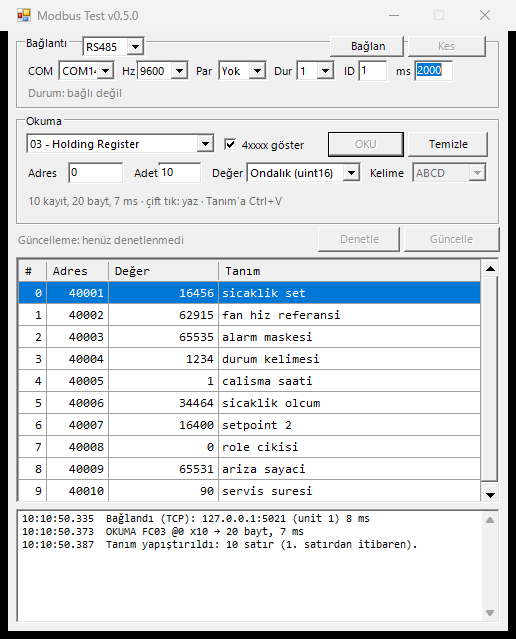
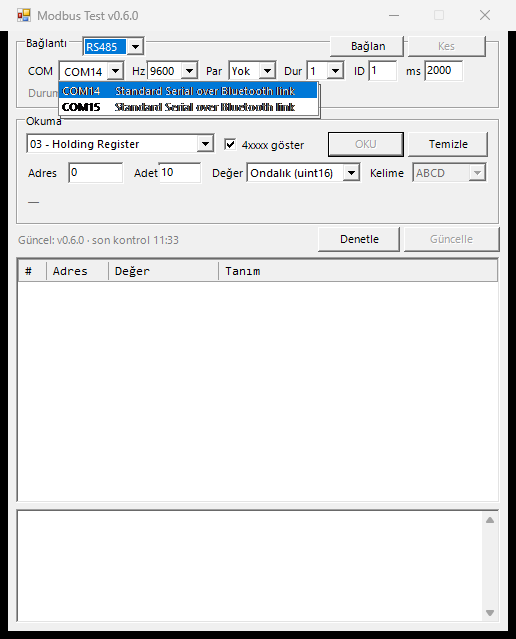
feat: COM listesi acilirken portun yaninda Windows'taki surucu adi yaziliyor
RS485 modunda COM kutusu owner-draw ile cizilir: solda sade port adi, sagda
Win32_PnPEntity aciklamasi (orn. COM14  USB-SERIAL Ch A). Kutu kapaliyken yalnizca
port adi gorunur, acilir liste olcuye gore genisler (en fazla 320 px). Aciklamalar
port listesi degistiginde yeniden sorgulanir; WMI yanit vermezse liste cidplak COM
adlaryla calismaya devam eder. COM kutusu 68 px'e genisletilip seri alanlar sag kaydirildi.

diff --git a/src/MainForm.cs b/src/MainForm.cs
@@ -32,6 +32,8 @@ namespace ModbusScan
         private bool _updateInstallRunning;
         private DataGridView grid;
         private readonly Dictionary<string, string> _definitions = new Dictionary<string, string>();
+        private readonly Dictionary<string, string> _portLabels = new Dictionary<string, string>();
+        private string _portLabelKey = "";
 
         public MainForm()
         {
@@ -93,25 +95,29 @@ namespace ModbusScan
             lblCom = MakeLabel("COM", 10, 28);
             cmbSerialPort = new ComboBox();
             cmbSerialPort.DropDownStyle = ComboBoxStyle.DropDownList;
-            cmbSerialPort.SetBounds(42, 25, 58, 22);
+            cmbSerialPort.SetBounds(42, 25, 68, 22);
+            // Açılır listede port adının sağına sürücü açıklaması yazılır (COM14 = USB-SERIAL Ch A).
+            cmbSerialPort.DrawMode = DrawMode.OwnerDrawFixed;
+            cmbSerialPort.ItemHeight = 16;
+            cmbSerialPort.DrawItem += OnPortDrawItem;
             // Listeyi açtıkca yeniden sorgula: dönüştürücü takılıp çıkarılabiliyor.
             cmbSerialPort.DropDown += delegate { RefreshPorts(); };
-            lblBaud = MakeLabel("Hz", 104, 28);
+            lblBaud = MakeLabel("Hz", 114, 28);
             cmbBaud = new ComboBox();
             cmbBaud.DropDownStyle = ComboBoxStyle.DropDownList;
-            cmbBaud.SetBounds(120, 25, 54, 22);
+            cmbBaud.SetBounds(130, 25, 54, 22);
             cmbBaud.Items.AddRange(new object[] { "1200", "2400", "4800", "9600", "19200", "38400", "57600", "115200" });
             cmbBaud.SelectedIndex = 3;
-            lblParity = MakeLabel("Par", 178, 28);
+            lblParity = MakeLabel("Par", 188, 28);
             cmbParity = new ComboBox();
             cmbParity.DropDownStyle = ComboBoxStyle.DropDownList;
-            cmbParity.SetBounds(202, 25, 50, 22);
+            cmbParity.SetBounds(212, 25, 50, 22);
             cmbParity.Items.AddRange(new object[] { "Yok", "Tek", "Çift" });
             cmbParity.SelectedIndex = 0;
-            lblStop = MakeLabel("Dur", 256, 28);
+            lblStop = MakeLabel("Dur", 266, 28);
             cmbStop = new ComboBox();
             cmbStop.DropDownStyle = ComboBoxStyle.DropDownList;
-            cmbStop.SetBounds(280, 25, 40, 22);
+            cmbStop.SetBounds(290, 25, 40, 22);
             cmbStop.Items.AddRange(new object[] { "1", "1.5", "2" });
             cmbStop.SelectedIndex = 0;
             gbConnection.Controls.Add(lblCom);
@@ -368,10 +374,10 @@ namespace ModbusScan
             if (rtu)
             {
                 // Seri alanlar tek satıra sığsın diye Bağlan/Kes başlık satırına çıkar.
-                lblUnit.Location = new Point(326, 28);
-                txtUnit.SetBounds(342, 25, 30, 21);
-                lblMs.Location = new Point(378, 28);
-                txtTimeout.SetBounds(398, 25, 40, 21);
+                lblUnit.Location = new Point(336, 28);
+                txtUnit.SetBounds(352, 25, 30, 21);
+                lblMs.Location = new Point(388, 28);
+                txtTimeout.SetBounds(408, 25, 40, 21);
                 btnConnect.SetBounds(314, 1, 74, 21);
                 btnDisconnect.SetBounds(392, 1, 78, 21);
                 RefreshPorts();
@@ -425,6 +431,7 @@ namespace ModbusScan
             });
 
             string previous = cmbSerialPort.Text;
+            FillPortLabels(names);
             cmbSerialPort.BeginUpdate();
             cmbSerialPort.Items.Clear();
             for (int i = 0; i < names.Length; i++) cmbSerialPort.Items.Add(names[i]);
@@ -437,6 +444,63 @@ namespace ModbusScan
             }
             int keep = previous.Length > 0 ? Array.IndexOf(names, previous) : -1;
             cmbSerialPort.SelectedIndex = keep >= 0 ? keep : 0;
+        }
+
+        /// <summary>Port listesi değiştiyse açıklamaları (sürücü adları) yeniden sorgular.</summary>
+        private void FillPortLabels(string[] names)
+        {
+            StringBuilder key = new StringBuilder();
+            for (int i = 0; i < names.Length; i++) key.Append(names[i]).Append(';');
+            if (key.ToString() == _portLabelKey) return;
+            _portLabelKey = key.ToString();
+            _portLabels.Clear();
+            if (names.Length == 0) return;
+
+            Dictionary<string, string> found = SerialPortInfo.Describe();
+            for (int i = 0; i < names.Length; i++)
+            {
+                string label;
+                if (found.TryGetValue(names[i], out label)) _portLabels[names[i]] = label;
+            }
+
+            int width = cmbSerialPort.Width;
+            for (int i = 0; i < names.Length; i++)
+            {
+                string label;
+                if (!_portLabels.TryGetValue(names[i], out label)) label = "";
+                Size measured = TextRenderer.MeasureText(names[i] + "   " + label, cmbSerialPort.Font,
+                    Size.Empty, TextFormatFlags.NoPrefix);
+                if (measured.Width + 24 > width) width = measured.Width + 24;
+            }
+            cmbSerialPort.DropDownWidth = width > 320 ? 320 : width;
+        }
+
+        private void OnPortDrawItem(object sender, DrawItemEventArgs e)
+        {
+            if (e.Index < 0) return;
+            string name = Convert.ToString(cmbSerialPort.Items[e.Index]);
+            string label;
+            if (!_portLabels.TryGetValue(name, out label)) label = "";
+            bool selected = (e.State & DrawItemState.Selected) != 0;
+            bool editBox = (e.State & DrawItemState.ComboBoxEdit) != 0;
+
+            e.DrawBackground();
+            Color textColor = selected ? SystemColors.HighlightText : SystemColors.WindowText;
+            TextRenderer.DrawText(e.Graphics, name, cmbSerialPort.Font, e.Bounds, textColor,
+                TextFormatFlags.Left | TextFormatFlags.VerticalCenter | TextFormatFlags.NoPrefix);
+
+            // Kutu kapalıyken yer dar; açıklama yalnızca açılır listede yazılır.
+            if (!editBox && label.Length > 0)
+            {
+                int nameWidth = TextRenderer.MeasureText(name, cmbSerialPort.Font, Size.Empty,
+                    TextFormatFlags.NoPrefix).Width;
+                Rectangle tail = new Rectangle(e.Bounds.X + nameWidth + 8, e.Bounds.Y,
+                    e.Bounds.Width - nameWidth - 10, e.Bounds.Height);
+                Color labelColor = selected ? Color.FromArgb(215, 228, 255) : Color.Gray;
+                TextRenderer.DrawText(e.Graphics, label, cmbSerialPort.Font, tail, labelColor,
+                    TextFormatFlags.Left | TextFormatFlags.VerticalCenter | TextFormatFlags.EndEllipsis | TextFormatFlags.NoPrefix);
+            }
+            e.DrawFocusRectangle();
         }
 
         private static int PortNumber(string name)

diff --git a/src/ModbusRtu.cs b/src/ModbusRtu.cs
@@ -1,9 +1,82 @@
 using System;
+using System.Collections.Generic;
 using System.IO;
 using System.IO.Ports;
+using System.Management;
 
 namespace ModbusScan
 {
+    /// <summary>
+    /// COM portlarının Windows'ta görünen sürücü açıklamalarını sorgular, böylece listede
+    /// "COM14" yerine "COM14  USB-SERIAL Ch A" yazabilir.
+    /// </summary>
+    public static class SerialPortInfo
+    {
+        /// <summary>Port adı → açıklama. WMI kapalıysa veya eşleşme yoksa boş sözlük döner.</summary>
+        public static Dictionary<string, string> Describe()
+        {
+            Dictionary<string, string> result = new Dictionary<string, string>(StringComparer.OrdinalIgnoreCase);
+            try
+            {
+                ManagementObjectSearcher searcher = new ManagementObjectSearcher(
+                    "SELECT Caption, Name FROM Win32_PnPEntity WHERE Caption LIKE '%(COM%'");
+                using (ManagementObjectCollection rows = searcher.Get())
+                {
+                    foreach (ManagementObject row in rows)
+                    {
+                        string caption = Text(row["Caption"]);
+                        if (caption.Length == 0) caption = Text(row["Name"]);
+                        string port = PortNameOf(caption);
+                        if (port == null) continue;
+                        string label = StripPortSuffix(caption, port);
+                        string current;
+                        if (label.Length > 0 && (!result.TryGetValue(port, out current) || current.Length < label.Length))
+                        {
+                            result[port] = label;
+                        }
+                    }
+                }
+            }
+            catch (Exception)
+            {
+                // WMI sorgulanamıyorsa liste çıplak COM adlarıyla devam eder.
+            }
+            return result;
+        }
+
+        private static string Text(object value)
+        {
+            return value == null ? "" : Convert.ToString(value).Trim();
+        }
+
+        /// <summary>"USB Serial Port (COM14)" metninden "COM14" çıkarır; yoksa null.</summary>
+        public static string PortNameOf(string caption)
+        {
+            if (caption == null) return null;
+            int open = caption.IndexOf("(COM", StringComparison.OrdinalIgnoreCase);
+            if (open < 0) return null;
+            int end = open + 4;
+            while (end < caption.Length && caption[end] >= '0' && caption[end] <= '9') end++;
+            if (end == open + 4 || end >= caption.Length || caption[end] != ')') return null;
+            return caption.Substring(open + 1, end - open - 1).ToUpperInvariant();
+        }
+
+        /// <summary>Açıklamadaki "(COM14)" parçasını silip kalanı döner; port zaten listede görünüyor.</summary>
+        public static string StripPortSuffix(string caption, string portName)
+        {
+            if (caption == null) return "";
+            int open = caption.IndexOf("(COM", StringComparison.OrdinalIgnoreCase);
+            if (open < 0) return caption.Trim();
+            int end = open + 4;
+            while (end < caption.Length && caption[end] >= '0' && caption[end] <= '9') end++;
+            if (end == open + 4 || end >= caption.Length || caption[end] != ')') return caption.Trim();
+            string head = caption.Substring(0, open).Trim();
+            string tail = caption.Substring(end + 1).Trim();
+            if (head.Length == 0) return tail;
+            if (tail.Length == 0) return head;
+            return head + " " + tail;
+        }
+    }
     /// <summary>
     /// Modbus RTU (seri / RS485) istemcisi. Çerçeve birim id + PDU + CRC16 (düşük bayt önce)
     /// biçimindedir; MBAP başlığı ve transaction takibi yoktur, yanıt uzunluğu fonksiyon

diff --git a/tools/SelfTest.cs b/tools/SelfTest.cs
@@ -33,6 +33,7 @@ internal static class SelfTest
         UpdaterChecks();
         CodecChecks();
         RtuFrameChecks();
+        PortLabelChecks();
         RtuStackChecks();
 
         _listener = new TcpListener(IPAddress.Loopback, 0);
@@ -194,6 +195,33 @@ internal static class SelfTest
               ModbusRtuClient.StopLetter(StopBits.OnePointFive) == "1.5" &&
               ModbusRtuClient.ParityLetter(Parity.Odd) == "O",
               "got " + ModbusRtuClient.FormatSettings("COM1", 19200, Parity.Even, 8, StopBits.Two));
+    }
+
+    /// <summary>COM port listesinde portun yaninda yazan aciklama metni (WMI caption) islemi.</summary>
+    private static void PortLabelChecks()
+    {
+        Check("PortNameOf COM14", SerialPortInfo.PortNameOf("USB Serial Port (COM14)") == "COM14",
+              "got " + SerialPortInfo.PortNameOf("USB Serial Port (COM14)"));
+        Check("PortNameOf kucuk harf", SerialPortInfo.PortNameOf("Bluetooth Link (com9)") == "COM9",
+              "got " + SerialPortInfo.PortNameOf("Bluetooth Link (com9)"));
+        Check("PortNameOf parantez yoksa null", SerialPortInfo.PortNameOf("COM5") == null, "null degil");
+        Check("PortNameOf rakam yoksa null", SerialPortInfo.PortNameOf("Paralel (COM)") == null, "null degil");
+        Check("PortNameOf kapanis yoksa null", SerialPortInfo.PortNameOf("Port (COM12") == null, "null degil");
+
+        Check("StripPortSuffix onden kirpilir",
+              SerialPortInfo.StripPortSuffix("USB-SERIAL Ch A (COM14)", "COM14") == "USB-SERIAL Ch A",
+              "got " + SerialPortInfo.StripPortSuffix("USB-SERIAL Ch A (COM14)", "COM14"));
+        Check("StripPortSuffix sondan kirpilir",
+              SerialPortInfo.StripPortSuffix("(COM3) USB Serial Converter", "COM3") == "USB Serial Converter",
+              "got " + SerialPortInfo.StripPortSuffix("(COM3) USB Serial Converter", "COM3"));
+        Check("StripPortSuffix aciklama yoksa bos",
+              SerialPortInfo.StripPortSuffix("(COM3)", "COM3") == "",
+              "got " + SerialPortInfo.StripPortSuffix("(COM3)", "COM3"));
+        Check("StripPortSuffix caption yoksa degismeden",
+              SerialPortInfo.StripPortSuffix("Paralel Port", "COM1") == "Paralel Port", "degisti");
+
+        Dictionary<string, string> described = SerialPortInfo.Describe();
+        Check("Describe hata vermeden sozluk dondurur", described != null, "null");
     }
 
     /// <summary>Tam RTU yiginini sahte seri akis uzerinden kosar: okuma, yazma, exception, CRC, zaman asimi.</summary>

diff --git a/src/Program.cs b/src/Program.cs
@@ -2,8 +2,8 @@
 using System.Reflection;
 using System.Windows.Forms;
 
-[assembly: AssemblyVersion("0.5.0")]
-[assembly: AssemblyFileVersion("0.5.0")]
+[assembly: AssemblyVersion("0.6.0")]
+[assembly: AssemblyFileVersion("0.6.0")]
 [assembly: AssemblyTitle("Modbus Test")]
 [assembly: AssemblyProduct("ModbusScan")]
 

diff --git a/README.md b/README.md
@@ -26,11 +26,12 @@ Ek bir şey kurmana gerek yok — Windows 10/11'de gelen .NET Framework 4.8 ile 
 
 ## RS485 (Modbus RTU) bağlantısı
 
-![Bağlantı kutusunda RS485 seçimi: COM, Hz, Par, Dur, ID, ms](docs/rs485-modu.png)
+![Bağlantı kutusunda RS485 seçimi: COM listesi açıkken her portun yanında Windows'taki adı yazılı](docs/rs485-modu.png)
 
 Seçimi `RS485` yapınca kutunun içeriği seri ayarlara döner; okuma/yazma tarafı aynı kalır, sadece taşıma değişir.
 
-- **COM**: sistemdeki portlar listelenir (COM1, COM2, … sayı sırasıyla). Dönüştürücüyü taktı-çıktıysan kutuyu açtığın an liste yenilenir. Port seçilmezse **Bağlan** `COM port bulunamadı` diye log'a yazar ve denemeye bırakır.
+- **COM**: sistemdeki portlar listelenir (COM1, COM2, … sayı sırasıyla). Kutuyu açtığında her portun **sağında Windows'taki görünen adı** yazar — örn. `COM14  USB-SERIAL Ch A` ya da `COM15  Standard Serial over Bluetooth link` — böylece RS485 dönüştürücünün hangisi olduğunu listeyi açmadan bulursun. Kutu **kapalıyken** yalnızca port adı görünür; 58 px'lik alana açıklama sığmaz, o yüzden açıklamayı sadece açılır listede, listenin genişletilmiş alanında görürsün.
+- **COM açıklaması nereden geliyor?**: Windows'un PnP kaydından (`Win32_PnPEntity` sorgusu, `(COM14)` parçası çıkarılmış hâli). Port listesi değiştiğinde yeniden sorgulanır; WMI yanıt vermezse (kapalı/bloke) liste çıplak COM adlarıyla çalışmaya devam eder, bağlantı etkilenmez. Dönüştürücüyü taktı-çıktıysan kutuyu açtığın an liste yenilenir. Port seçilmezse **Bağlan** `COM port bulunamadı` diye log'a yazar ve denemeye bırakır.
 - **Hz**: 1200 … 115200; varsayılan `9600`. **Par**: `Yok / Tek / Çift` (None/Odd/Even). **Dur**: `1 / 1.5 / 2`. Veri biti Modbus RTU standardı gereği sabit **8**'dir; özet `8N1` olarak görünür.
 - **ID**: RTU'da **slave (cihaz) adresi** — TCP'deki unit id ile aynı alan, 1..247 kullanılır, `0` broadcast'tır (bu araç broadcast yapmaz).
 - **ms**: yanıt bekleme süresi. RS485'te cihaz cevap vermezse `Yanıt gelmedi (2000 ms) — cihaz adresi, hız ve pariteyi kontrol et` yazar; port açık kalır, doğru adresi deneyene kadar bağlantıyı koparmaz.
@@ -73,8 +74,8 @@ Pencerede gönderilecek baytlar **önizleme** satırında görünür — örn. `
 Pencerenin altındaki şerit programın kendi güncelliğini takip eder:
 
 - Program açıldıktan ~1 saniye sonra bir kez, sonra **her 60 saniyede** GitHub'daki en yeni release etiketi sorgulanır.
-- Yeni sürüm varsa satır **yeşile** döner (`YENİ sürüm var: v0.5.0 (48.4 KB)`) ve **Güncelle** butonu aktif olur.
-- Sürüm sende ise gri `Güncel: v0.5.0 · son kontrol 08:31` yazarsın; ağ yoksa satır gri kalır ve denemeye devam eder.
+- Yeni sürüm varsa satır **yeşile** döner (`YENİ sürüm var: v0.6.0 (54.0 KB)`) ve **Güncelle** butonu aktif olur.
+- Sürüm sende ise gri `Güncel: v0.6.0 · son kontrol 08:31` yazarsın; ağ yoksa satır gri kalır ve denemeye devam eder.
 - **Denetle** butonu aynı sorguyu elle, hemen yaptırır (log satırında sonucu görünür).
 - **Güncelle** exe'yi geçici klasöre indirir, boyutunu ve `MZ` başlığını doğrular, sonra kendini değiştiren kısa bir betik başlatır: program kapanır, betik dosya kilidi çözülünce yenisiyle değiştirip uygulamayı yeniden açar. Değişim olmazsa eski exe açılır ve sürüm sayfası tarayıcıda açılır.
 - İndirme sırasında sağ tıklamaya gerek yok; buton **Sayfayı aç** olur ve sürüm sayfasına gider (asset henüz hazır değilse).
@@ -103,7 +104,7 @@ Soket seviyesindeki testler harici sunucu gerektirmez — kendi process'i içind
 dist\SelfTest.exe
 ```
 
-Bu araç MBAP çerçevelemesini (transaction/unit id, big-endian adres/adet), dört fonksiyon kodunun yanıtını, `uint16/int16/float32/uint32` çözümlerini, kelime sırasını, Modbus exception'ını ve byte count tutarsızlığını doğrular. Yazma tarafında FC05/FC06/FC16 çerçevelerinin doğru baytları taşıdığını, yankı uyuşmazlığını ve her kelime sırası için kodlama ↔ çözme gidiş-dönüşünü kontrol eder. RTU tarafı iki parçaya ayrılır: çerçeveleme testleri CRC16'nın bilinen vektörlerle (`01 03 00 00 00 0A → C5 CD`) aynı baytları ürettiğini, `HasValidCrc`'nin bozuk çerçeveyi yakaladığını ve `8N1 / 8E2` özetini denetler; tam yığın testi ise COM port açmadan, sahte bir çift yönlü akış üzerinden RTU cihazını taklit eder — okuma/yazma gidiş-dönüşü, exception, CRC hatası, yanlış birim id, yanıtsızlıktan doğan zaman aşımı ve zaman aşımından sonra tamponun temiz kalıp bir sonraki okumanın çalıştığı burada doğrulanır. Ayrıca güncelleyicinin saf fonksiyonlarını (etiket çözümleme, 302 hedefinden etiket çıkarma, asset URL'i, sürüm karşılaştırması, boyut biçimleme) ağa çıkmadan test eder.
+Bu araç MBAP çerçevelemesini (transaction/unit id, big-endian adres/adet), dört fonksiyon kodunun yanıtını, `uint16/int16/float32/uint32` çözümlerini, kelime sırasını, Modbus exception'ını ve byte count tutarsızlığını doğrular. Yazma tarafında FC05/FC06/FC16 çerçevelerinin doğru baytları taşıdığını, yankı uyuşmazlığını ve her kelime sırası için kodlama ↔ çözme gidiş-dönüşünü kontrol eder. RTU tarafı iki parçaya ayrılır: çerçeveleme testleri CRC16'nın bilinen vektörlerle (`01 03 00 00 00 0A → C5 CD`) aynı baytları ürettiğini, `HasValidCrc`'nin bozuk çerçeveyi yakaladığını ve `8N1 / 8E2` özetini denetler; tam yığın testi ise COM port açmadan, sahte bir çift yönlü akış üzerinden RTU cihazını taklit eder — okuma/yazma gidiş-dönüşü, exception, CRC hatası, yanlış birim id, yanıtsızlıktan doğan zaman aşımı ve zaman aşımından sonra tamponun temiz kalıp bir sonraki okumanın çalıştığı burada doğrulanır. Ayrıca güncelleyicinin saf fonksiyonlarını (etiket çözümleme, 302 hedefinden etiket çıkarma, asset URL'i, sürüm karşılaştırması, boyut biçimleme) ağa çıkmadan test eder. COM listesi açıklamalarında ise `Win32_PnPEntity` başlıklarının ayrıştırılması (`USB Serial Port (COM14)` → port `COM14`, açıklama `USB Serial Port`) ve WMI sorgusunun hata vermeden boş dönebilmesi doğrulanır.
 
 Gerçek cihaz yokken arayüzü ve tam yığınını denemek için sahte Modbus TCP sunucusu:
 
@@ -122,25 +123,25 @@ dist\Probe.exe --com COM3 --baud 9600 --parity N --stop 1 --unit 1 --fc 3 --addr
 powershell -ExecutionPolicy Bypass -File tools\GuiTest.ps1 -Port 5021
 ```
 
-`GuiTest.ps1` 63 kontrolü doğrular: dört fonksiyon kodu, `uint16/int16/hex/float32/uint32` çözümleri, `ABCD/CDAB` kelime sırası, `4xxxx` ↔ PDU adres biçimi, adet sınırı, Modbus exception yanıtı, bağlantı kurulamayan durum, yazma penceresi (çift tıkla açılış, adres ve bayt önizleme, FC06/FC16/FC05 yazma + geri okuma, tablonun tazelenmesi, geçersiz değer ve salt okunur alanda pasif **Yaz**), tanım sütunu (hücreye yazma, Excel biçimli metinden satır satır yapıştırma, çok sütunlu kopyada ilk alan, seçili satırdan başlama, taşan satırların loglanması, okuma tekrarında korunma, dosyaya yazılma ve yeni pencerede geri yüklenme), RS485 modu (TCP'de IP/Port görünür ve COM gizli, RS485'te alanlar yer değiştirir, kutuya sığar, `9600/Yok/1` varsayılanları ve parite/durdurma enum eşlemesi, sistem COM listesiyle aynı liste, port seçilmeden bağlanmanın reddi, TCP'ye dönüşte test sunucusuna bağlantı, bağlıyken mod seçiminin kilitlenmesi), güncelleme şeridi (yeşil "yeni sürüm" + aktif Güncelle, asset yoksa "Sayfayı aç", güncelse pasif buton, denetim hatası, şerit/tablo yerleşimi).
+`GuiTest.ps1` 68 kontrolü doğrular: dört fonksiyon kodu, `uint16/int16/hex/float32/uint32` çözümleri, `ABCD/CDAB` kelime sırası, `4xxxx` ↔ PDU adres biçimi, adet sınırı, Modbus exception yanıtı, bağlantı kurulamayan durum, yazma penceresi (çift tıkla açılış, adres ve bayt önizleme, FC06/FC16/FC05 yazma + geri okuma, tablonun tazelenmesi, geçersiz değer ve salt okunur alanda pasif **Yaz**), tanım sütunu (hücreye yazma, Excel biçimli metinden satır satır yapıştırma, çok sütunlu kopyada ilk alan, seçili satırdan başlama, taşan satırların loglanması, okuma tekrarında korunma, dosyaya yazılma ve yeni pencerede geri yüklenme), RS485 modu (TCP'de IP/Port görünür ve COM gizli, RS485'te alanlar yer değiştirir, kutuya sığar, `9600/Yok/1` varsayılanları ve parite/durdurma enum eşlemesi, sistem COM listesiyle aynı liste, listenin owner-draw olması ve yalnızca sade port adlarını saklaması, açılır liste genişliğinin kutudan dar olmaması, açıklamaların sadece mevcut portlara yazılmış olması, port seçilmeden bağlanmanın reddi, TCP'ye dönüşte test sunucusuna bağlantı, bağlıyken mod seçiminin kilitlenmesi), güncelleme şeridi (yeşil "yeni sürüm" + aktif Güncelle, asset yoksa "Sayfayı aç", güncelse pasif buton, denetim hatası, şerit/tablo yerleşimi).
 
 ### CI
 
 `v*` tag'i itildiğinde GitHub Actions (windows-latest) derler, `SelfTest.exe`'yi koşar ve exe'yi release asset olarak yayınlar:
 
 ```bash
-git tag v0.5.0
-git push origin v0.5.0
+git tag v0.6.0
+git push origin v0.6.0
 ```
 
-Yayınlanan exe'nin adı `ModbusScan-v0.5.0.exe` olur; program tam bu adı `releases/latest` yönlendirmesinden bulduğu etiketle türetir. Etiket adını veya asset adını değiştirirsen güncelleme bozulur.
+Yayınlanan exe'nin adı `ModbusScan-v0.6.0.exe` olur; program tam bu adı `releases/latest` yönlendirmesinden bulduğu etiketle türetir. Etiket adını veya asset adını değiştirirsen güncelleme bozulur.
 
 ## Dosyalar
 
 | Yol | Açıklama |
 | --- | --- |
 | `src/ModbusTcp.cs` | `ModbusClient` tabanı (PDU kurma, okuma/yazma FC01–FC06/FC16, veri çözme ve kodlama: hex, uint, int, float, kelime sırası) + TCP MBAP taşıması |
-| `src/ModbusRtu.cs` | RS485/seri taşıması: SerialPort açma, COM listesi, `birim id + PDU + CRC16` çerçeveleme, yanıt uzunluğunu byte count'tan çözme, zaman aşımı ve yarım çerçeve temizliği |
+| `src/ModbusRtu.cs` | RS485/seri taşıması: SerialPort açma, COM listesi ve `Win32_PnPEntity` sürücü açıklamaları, `birim id + PDU + CRC16` çerçeveleme, yanıt uzunluğunu byte count'tan çözme, zaman aşımı ve yarım çerçeve temizliği |
 | `src/Updater.cs` | GitHub sürüm denetimi (302 yönlendirmesi), indirme doğrulama, kendini değiştiren betik |
 | `src/WriteDialog.cs` | Hücreye çift tıklayınca açılan yazma penceresi (tür seçimi, bayt önizleme, geri okuma) — TCP/RS485 ayrımı yoktur, ortak istemciyi kullanır |
 | `src/MainForm.cs` | 500 × 600 px pencere, TCP/RS485 seçimli bağlantı kutusu, okuma alanları, sonuç tablosu (# / Adres / Değer / Tanım), tanım yapıştırma ve `%APPDATA%\ModbusScan\definitions.txt` kalıcılığı, log alanı |
